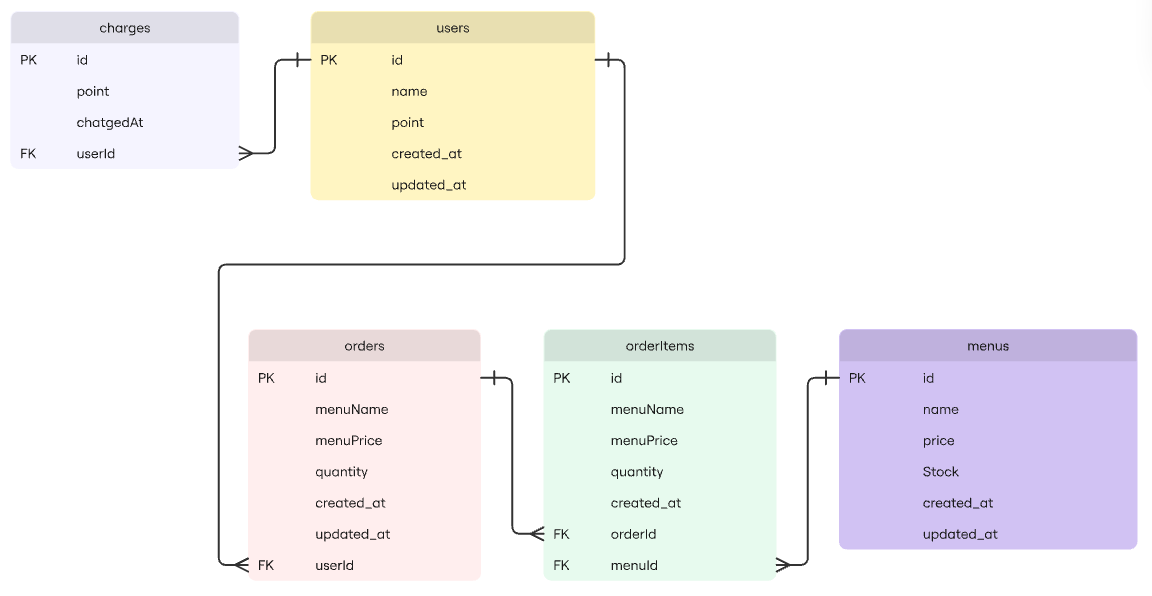
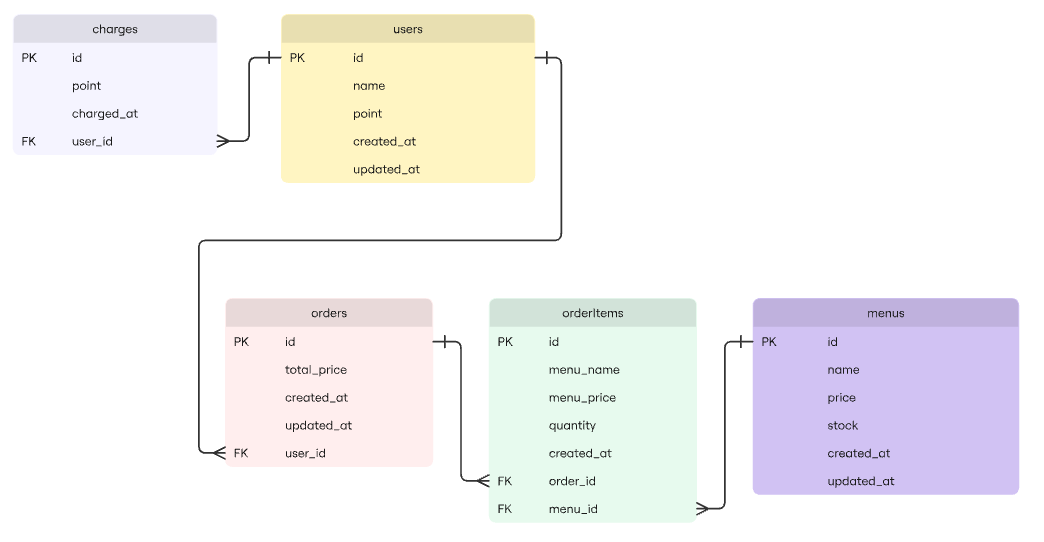
feat: 기본 패키지 및 entity 구성

diff --git a/src/main/java/com/example/demo/domain/order/entity/OrderItem.java b/src/main/java/com/example/demo/domain/order/entity/OrderItem.java
@@ -1,0 +1,44 @@
+package com.example.demo.domain.order.entity;
+
+import com.example.demo.common.entity.BaseEntity;
+import com.example.demo.domain.menu.entity.Menu;
+import jakarta.persistence.*;
+import lombok.AccessLevel;
+import lombok.Getter;
+import lombok.NoArgsConstructor;
+
+@Getter
+@Entity
+@Table(name = "orderItems")
+@NoArgsConstructor(access = AccessLevel.PROTECTED)
+public class OrderItem extends BaseEntity {
+
+    @Id
+    @GeneratedValue(strategy = GenerationType.IDENTITY)
+    private Long id;
+
+    @Column(name = "menu_name")
+    private String menuName;
+
+    @Column(name = "menu_price")
+    private long menuPrice;
+
+    @Column(nullable = false)
+    private long quantity;
+
+    @ManyToOne(fetch = FetchType.LAZY)
+    @JoinColumn(name = "order_id")
+    private Order order;
+
+    @ManyToOne(fetch = FetchType.LAZY)
+    @JoinColumn(name = "menu_id")
+    private Menu menu;
+
+    public OrderItem(String menuName, long menuPrice, long quantity, Order order, Menu menu) {
+        this.menuName = menuName;
+        this.menuPrice = menuPrice;
+        this.quantity = quantity;
+        this.order = order;
+        this.menu = menu;
+    }
+}

diff --git a/src/main/java/com/example/demo/domain/menu/entity/Menu.java b/src/main/java/com/example/demo/domain/menu/entity/Menu.java
@@ -1,0 +1,41 @@
+package com.example.demo.domain.menu.entity;
+
+import com.example.demo.common.entity.BaseEntity;
+import jakarta.persistence.*;
+import lombok.AccessLevel;
+import lombok.Getter;
+import lombok.NoArgsConstructor;
+
+@Getter
+@Entity
+@Table(name = "menus")
+@NoArgsConstructor(access = AccessLevel.PROTECTED)
+public class Menu extends BaseEntity {
+
+    @Id
+    @GeneratedValue(strategy = GenerationType.IDENTITY)
+    private Long id;
+
+    @Column(nullable = false)
+    private String name;
+
+    @Column(nullable = false)
+    private long price;
+
+    @Column(nullable = false)
+    private long stock;
+
+    public Menu(String name, long price, long stock) {
+        if (price < 0) {
+            throw new RuntimeException("가격은 0 이상이어야 합니다.");
+        }
+
+        if (stock < 0) {
+            throw new RuntimeException("재고는 0 이상이어야 합니다.");
+        }
+
+        this.name = name;
+        this.price = price;
+        this.stock = stock;
+    }
+}

diff --git a/src/main/java/com/example/demo/domain/charge/entity/Charge.java b/src/main/java/com/example/demo/domain/charge/entity/Charge.java
@@ -1,0 +1,39 @@
+package com.example.demo.domain.charge.entity;
+
+import com.example.demo.domain.user.entity.User;
+import jakarta.persistence.*;
+import lombok.AccessLevel;
+import lombok.Getter;
+import lombok.NoArgsConstructor;
+
+import java.time.LocalDateTime;
+
+@Getter
+@Entity
+@Table(name = "charges")
+@NoArgsConstructor(access = AccessLevel.PROTECTED)
+public class Charge {
+
+    @Id
+    @GeneratedValue(strategy = GenerationType.IDENTITY)
+    private Long id;
+
+    @Column(nullable = false)
+    private long point;
+
+    @Column(name = "charged_at")
+    private LocalDateTime chargedAt;
+
+    @ManyToOne(fetch = FetchType.LAZY)
+    @JoinColumn(name = "user_id")
+    private User user;
+
+    public Charge(long point, User user) {
+        if (point < 1) {
+            throw new RuntimeException("포인트 충전은 1 이상이어야 합니다.");
+        }
+
+        this.point = point;
+        this.user = user;
+    }
+}

diff --git a/src/main/java/com/example/demo/domain/order/entity/Order.java b/src/main/java/com/example/demo/domain/order/entity/Order.java
@@ -1,0 +1,31 @@
+package com.example.demo.domain.order.entity;
+
+import com.example.demo.common.entity.BaseEntity;
+import com.example.demo.domain.user.entity.User;
+import jakarta.persistence.*;
+import lombok.AccessLevel;
+import lombok.Getter;
+import lombok.NoArgsConstructor;
+
+@Getter
+@Entity
+@Table(name = "orders")
+@NoArgsConstructor(access = AccessLevel.PROTECTED)
+public class Order extends BaseEntity {
+
+    @Id
+    @GeneratedValue(strategy = GenerationType.IDENTITY)
+    private Long id;
+
+    @Column(name = "total_price")
+    private long totalPrice;
+
+    @ManyToOne(fetch = FetchType.LAZY)
+    @JoinColumn(name = "user_id")
+    private User user;
+
+    public Order(long totalPrice, User user) {
+        this.totalPrice = totalPrice;
+        this.user = user;
+    }
+}

diff --git a/src/main/java/com/example/demo/common/entity/BaseEntity.java b/src/main/java/com/example/demo/common/entity/BaseEntity.java
@@ -1,0 +1,23 @@
+package com.example.demo.common.entity;
+
+import jakarta.persistence.Column;
+import jakarta.persistence.EntityListeners;
+import jakarta.persistence.MappedSuperclass;
+import lombok.Getter;
+import org.springframework.data.annotation.CreatedDate;
+import org.springframework.data.annotation.LastModifiedDate;
+
+import java.time.LocalDateTime;
+
+@Getter
+@MappedSuperclass
+@EntityListeners(AutoCloseable.class)
+public class BaseEntity {
+
+    @CreatedDate
+    @Column(updatable = false)
+    private LocalDateTime createdAt;
+
+    @LastModifiedDate
+    private LocalDateTime updatedAt;
+}

diff --git a/src/main/java/com/example/demo/domain/user/entity/User.java b/src/main/java/com/example/demo/domain/user/entity/User.java
@@ -1,0 +1,26 @@
+package com.example.demo.domain.user.entity;
+
+import com.example.demo.common.entity.BaseEntity;
+import jakarta.persistence.*;
+import lombok.AccessLevel;
+import lombok.Getter;
+import lombok.NoArgsConstructor;
+
+@Getter
+@Entity
+@Table(name = "users")
+@NoArgsConstructor(access = AccessLevel.PROTECTED)
+public class User extends BaseEntity {
+
+    @Id
+    @GeneratedValue(strategy = GenerationType.IDENTITY)
+    private Long id;
+
+    private String name;
+
+    private long point;
+
+    public User(String name) {
+        this.name = name;
+    }
+}

diff --git a/src/main/java/com/example/demo/common/config/JpaAuditingConfig.java b/src/main/java/com/example/demo/common/config/JpaAuditingConfig.java
@@ -1,0 +1,9 @@
+package com.example.demo.common.config;
+
+import org.springframework.context.annotation.Configuration;
+import org.springframework.data.jpa.repository.config.EnableJpaAuditing;
+
+@EnableJpaAuditing
+@Configuration
+public class JpaAuditingConfig {
+}
